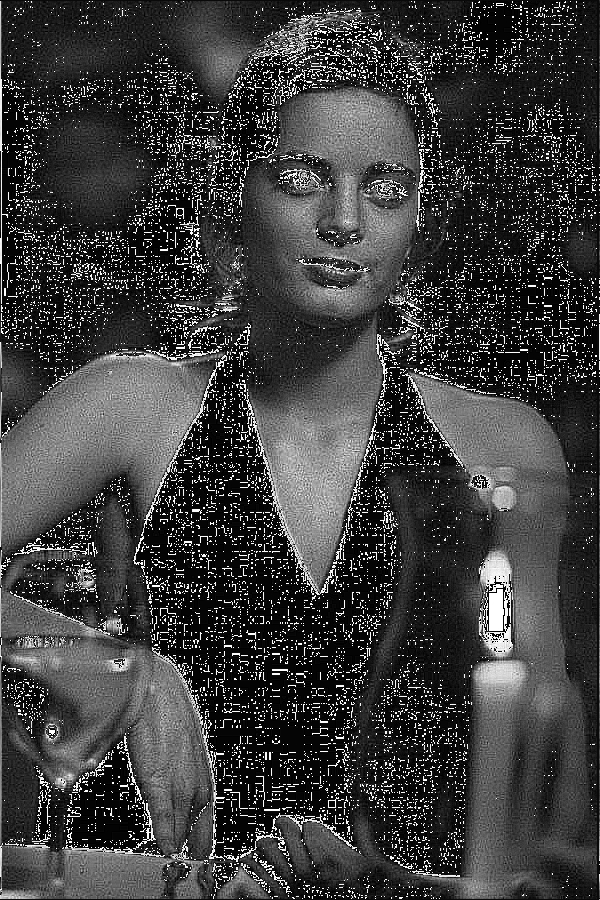
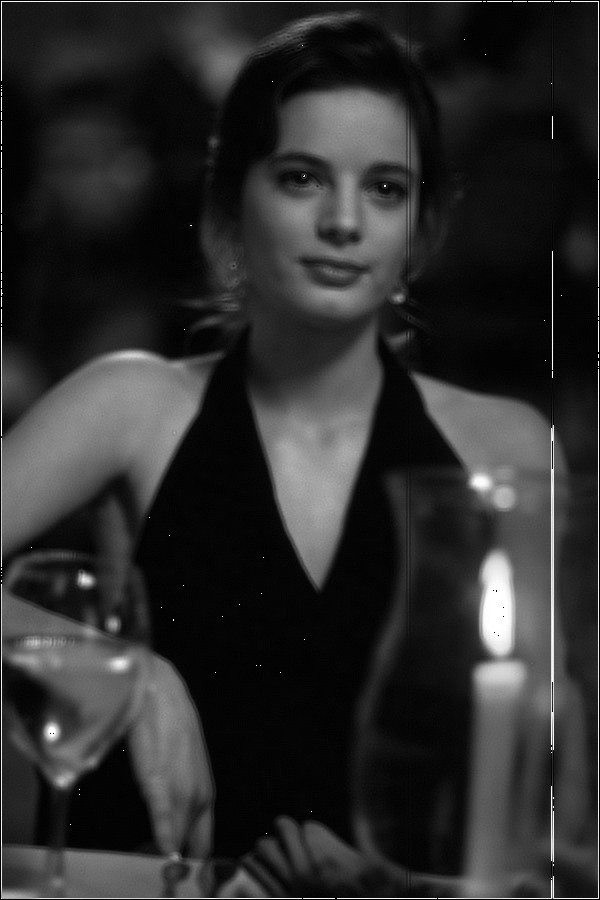
Cleaned it up

diff --git a/convolutional.c b/convolutional.c
@@ -8,74 +8,75 @@
 #include "stb/stb_image_write.h"
 
 int main(void) {
+    // Read image
     int width, height, channels;
-    unsigned char* img = stbi_load("img/gab.jpg", &width, &height, &channels, 0);
+    unsigned char* img = stbi_load("res/blur.jpg", &width, &height, &channels, 0);
     if(img == NULL){
         printf("Error ocurred while loading the image!");
         exit(1);
     }
     printf("Loaded the image with a size of %dx%d and channels %d \n", width, height, channels);
 
+    // Image details
     size_t img_size = width * height * channels;
     int gray_channels = channels == 4 ? 2 : 1;
     size_t gray_img_size = width * height * gray_channels;
 
+    // Load gray image
     unsigned char* gray_img = malloc(gray_img_size);
     if (gray_img == NULL) {
         printf("Unable to allocate the memory for gray image.\n");
         exit(1);
     }
 
+    // Make gray image
     for (unsigned char *p = img, *pg = gray_img; p != img + img_size; p += channels, pg += gray_channels) {
         int i = (int)(pg) % (int)(gray_img);
-        // Grayscale this mf
+        // Grayscale
         *pg = ((*p + *(p + 1) + *(p + 2)) / 3.0);
-
-        // I think this one is faster (we already know the nums are well behaved)
-        // int p_check = ((int)(*pg) + shades_stop - 1) / shades_stop;
-        // int p_check = (int)(*pg)/shades_stop + ((int)(*pg) % shades_stop != 0);
-        // *pg = shades[p_check - 1];
-        // Im fucking stupid: 
-        // *pg = shades[(int)(*pg / shades_stop)];
 
         if(i%width == 0){
             *pg = '\n';
         } 
 
-        // For alpha and shit
+        // Alpha
         if(channels == 4){
             *(pg + 1) = *(pg + 3);
         }
     }
 
+    // Load conv image
+    const int kernel[3][3] = {{-1,-1,-1},{-1,6,-1},{-1,-1,-1}};
     // const int kernel[3][3] = {{1,2,1},{2,4,2},{1,2,1}};
-    const int kernel[3][3] = {{-1,-1,-1},{-1,9,-1},{-1,-1,-1}};
     // const int kernel[3][3] = {{1,1,1},{1,1,1},{1,1,1}};
     const int kernel_norm = kernel[0][0]+kernel[0][1]+kernel[0][2]+kernel[1][0]+kernel[1][1]+kernel[1][2]+kernel[2][0]+kernel[2][1]+kernel[2][2];
     unsigned char* conv_img = malloc(gray_img_size);
     if (conv_img == NULL) {
-        printf("Unable to allocate the memory for gray image.\n");
+        printf("Unable to allocate the memory for conv image.\n");
         exit(1);
     }
 
-    int ii = 2;
+    // Make conv image
+    int ii = 0;
     for(unsigned char *pg = gray_img, *cp = conv_img; pg != gray_img + gray_img_size; pg += gray_channels, cp += gray_channels){
+        // Kernel matrix
         int a00, a01, a02, a10, a11, a12, a20,a21,a22;
 
         int row_num = ii / width;
         int row_num_next = (ii+1) / width;
         int row_num_prev = (ii-1) / width;
 
+        // Jump the first and last row / column
         int col_num = 0;
         if(row_num != row_num_next || row_num != row_num_prev) {
             col_num = 1;
         }
 
-        if(row_num == 0 || row_num == height -1){
-            a00 = a01 = a02 = a10 = a11 = a12 = a20 = a21 = a22 = 1;
+        if(row_num == 0 || row_num == height - 1){
+            a00 = a01 = a02 = a10 = a11 = a12 = a20 = a21 = a22 = 0;
         }
         else if(col_num == 1){
-            a00 = a01 = a02 = a10 = a11 = a12 = a20 = a21 = a22 = 1;
+            a00 = a01 = a02 = a10 = a11 = a12 = a20 = a21 = a22 = 0;
         } else {
             a00 = *(pg - width - gray_channels) * kernel[0][0];
             a01 = *(pg - width) * kernel[0][1];
@@ -89,6 +90,7 @@ int main(void) {
         }
 
         int conv = (a00 + a01 + a02 + a10 + a11 + a12 + a20 + a21 + a22) / kernel_norm;
+        // int conv = (a00 + a01 + a02 + a10 + a11 + a12 + a20 + a21 + a22);
         *cp = conv;
         ii++;
     }
@@ -98,7 +100,7 @@ int main(void) {
     // stbi_write_jpg("./gray.jpg", width, height, gray_channels, gray_img, 100);
     stbi_write_jpg("./res/conv.jpg", width, height, gray_channels, conv_img, 100);
 
-    // Free mem
+    // Free memory
     stbi_image_free(img);
     free(gray_img);
     free(conv_img);
